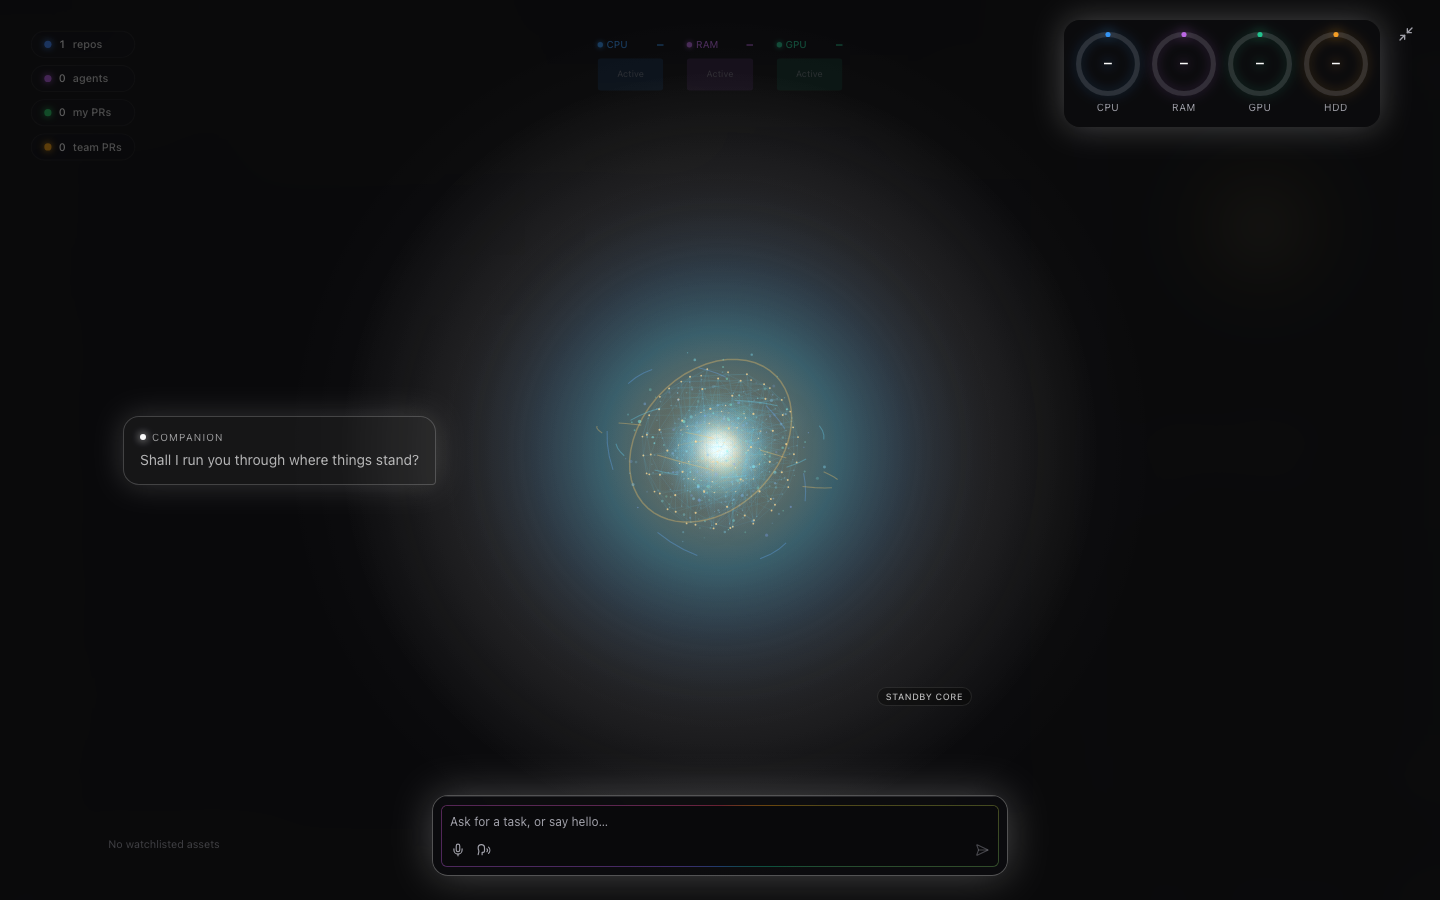
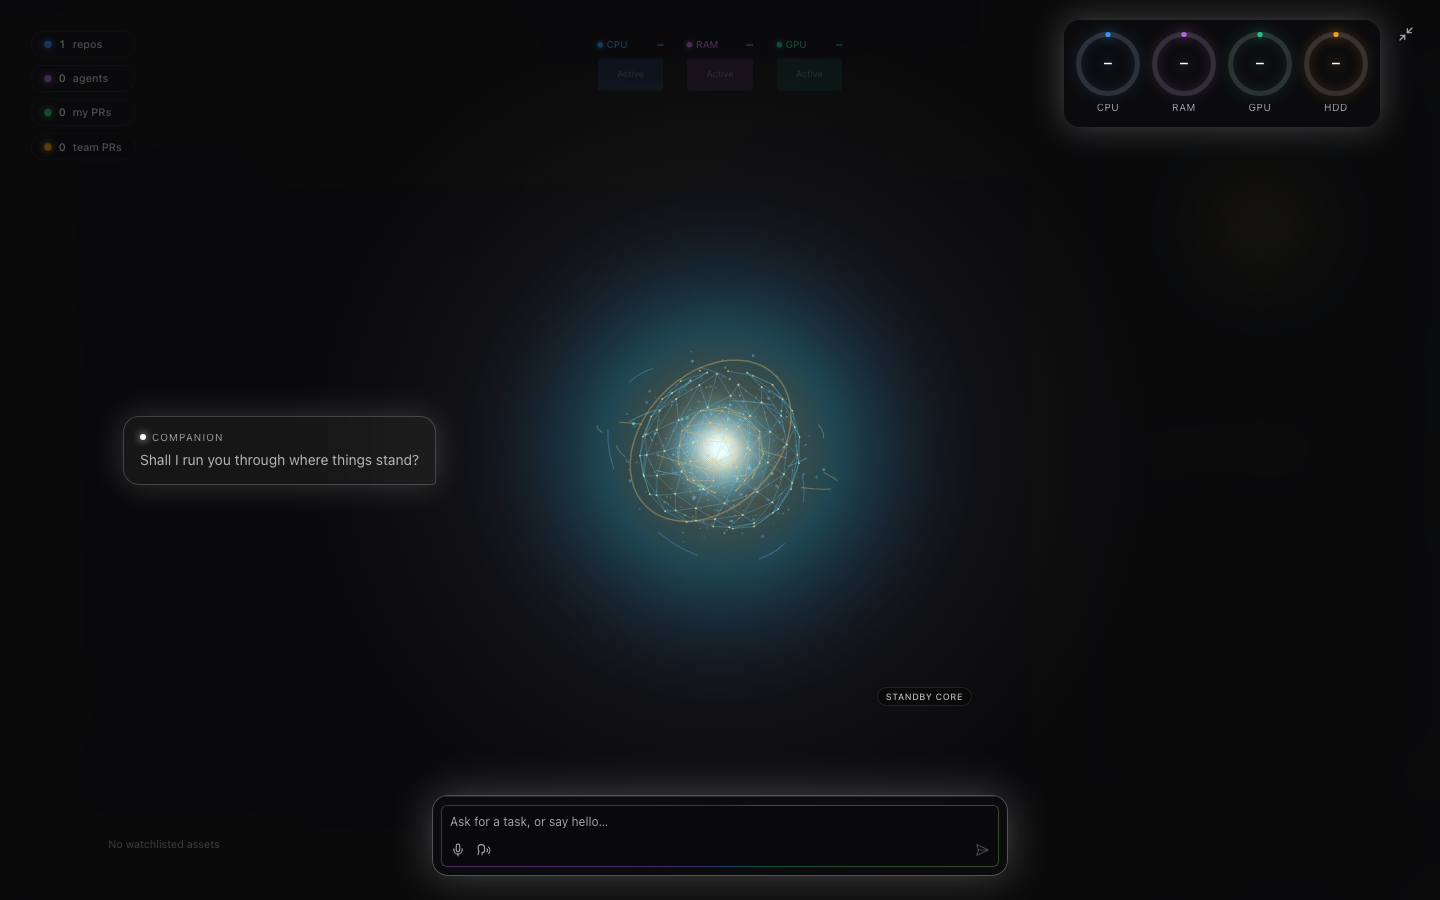
fix(companion): self-review — true lattice neighbours, CSS edge mask, breathing at the cap
- Lattice offsets are the Fibonacci sphere's real nearest neighbours (8/13/21
  outer, 5/8/13 inner) and never wrap, which drew chords through the poles.
- Edges batch into one front and one back path: 4 strokes per frame, not ~600.
- The edge mask is a CSS mask-image (an ellipse via closest-side) instead of a
  per-frame destination-in fill over the whole canvas; the wide docked canvas
  keeps its horizontal room.
- The corona's cap breathes too, so the docked corona (always at the cap)
  still changes size.
- Drop the Zen DOM halo: it pulsed out of phase with the corona it duplicated.
- Corona test derives the zen geometry from the real constants.

Changed region(s): [[0.375, 0.3111, 0.625, 0.7156]]

diff --git a/packages/app/src/features/companion/companion-orb.tsx b/packages/app/src/features/companion/companion-orb.tsx
@@ -1,6 +1,6 @@
 import { COMPANION_LEVEL_VAR, type CompanionState } from '@midnite/studio-shared';
 import { project3D, rotate3D, type ProjectedPoint, type Vec3 } from '@midnite/studio-frame';
-import { useEffect, useRef } from 'react';
+import { useEffect, useRef, type CSSProperties } from 'react';
 
 export type OrbStateVisualProfile = {
   mode: 'idle' | 'listening' | 'thinking' | 'speaking' | 'handoff';
@@ -108,17 +108,29 @@ export const ORB_PARTICLE_COUNT = 280;
  */
 export const ORB_ZEN_GLOW_BLEED = 0.35;
 
+/** The orb's resting radius as a fraction of its layout box's shorter side. */
+export const ORB_RADIUS_FRACTION = 0.3;
+
 /**
- * Where the edge mask starts fading, as a fraction of the canvas's half-extent.
- * Everything drawn fades to nothing by the half-extent itself, so no layer can
- * meet the canvas edge with a hard line, whatever its radius.
+ * Where the edge mask starts fading, as a fraction of the distance from the
+ * centre to the canvas edge. Everything drawn has faded to nothing by the edge
+ * itself, so no layer can meet it with a hard line, whatever its radius.
  */
 export const ORB_EDGE_FADE_START = 0.82;
 
 /**
+ * A CSS mask rather than a per-frame `destination-in` fill: the compositor
+ * applies it once to the whole canvas. `closest-side` makes it an ellipse
+ * inscribed in the canvas, so a wide docked canvas keeps its horizontal room.
+ */
+const ORB_EDGE_MASK = `radial-gradient(closest-side, #000 ${ORB_EDGE_FADE_START * 100}%, transparent 100%)`;
+
+/**
  * The corona's outer radius: grows with speech and breathes with `breath`
  * (-1..1), but never past `maxRadius`, so its gradient always reaches
- * transparent inside the canvas.
+ * transparent inside the canvas. The cap breathes too, so a corona held at
+ * the cap (the docked canvas, where there is no spare room) still visibly
+ * changes size.
  */
 export function orbCoronaRadius(
   baseRadius: number,
@@ -126,7 +138,8 @@ export function orbCoronaRadius(
   breath: number,
   maxRadius: number,
 ): number {
-  return Math.min(maxRadius, baseRadius * (1.85 + speech * 0.35) * (1 + breath * 0.07));
+  const cap = maxRadius * (0.93 + 0.035 * (breath + 1));
+  return Math.min(cap, baseRadius * (1.85 + speech * 0.35) * (1 + breath * 0.07));
 }
 
 type FogCloud3D = {
@@ -222,8 +235,8 @@ export function computeSphericalHarmonicVertex(
  * - **State-Specific Synaptic Arcs & Vocal Resonance Shells**: Distinct animations
  *   and color palettes for `idle`, `listening`, `thinking`, `speaking`, and `handoff`.
  *
- * Nothing it draws is ever cut off by the canvas edge: an edge mask fades every
- * layer out before the half-extent, and in Zen the canvas bleeds
+ * Nothing it draws is ever cut off by the canvas edge: a CSS edge mask fades
+ * every layer out before the edge, and in Zen the canvas bleeds
  * {@link ORB_ZEN_GLOW_BLEED} past its box so the corona has room to bloom.
  */
 export function CompanionOrb({ state, zen = false }: { state: CompanionState; zen?: boolean }) {
@@ -387,7 +400,7 @@ export function CompanionOrb({ state, zen = false }: { state: CompanionState; ze
       const canvasHalf = Math.min(width, height) / 2;
       // The orb is sized from the layout box; in Zen the canvas is larger than that box.
       const layoutMin = Math.min(width, height) / (zen ? 1 + 2 * ORB_ZEN_GLOW_BLEED : 1);
-      const baseRadius = layoutMin * 0.3 * (1 + speech * 0.14 + Math.sin(anim.pulsePhase) * 0.03);
+      const baseRadius = layoutMin * ORB_RADIUS_FRACTION * (1 + speech * 0.14 + Math.sin(anim.pulsePhase) * 0.03);
       const fov = 320;
       const camDist = 340;
       // Slow breathing (~7s) with a faster overtone, independent of speech.
@@ -536,8 +549,8 @@ export function CompanionOrb({ state, zen = false }: { state: CompanionState; ze
         innerNodes.push(project3D(rotated, centerX, centerY, fov, camDist));
       }
       // Neighbour offsets on a Fibonacci sphere are Fibonacci numbers; joining them triangulates it.
-      strokeLattice(ctx, innerNodes, [1, 5, 8], anim.accHue, 0.38 + speech * 0.3, 0.75);
-      strokeLattice(ctx, projectedNodes, [1, 13, 21], anim.hue, 0.28 + speech * 0.42, 1, anim.secHue);
+      strokeLattice(ctx, innerNodes, [5, 8, 13], anim.accHue, 0.38 + speech * 0.3, 0.75);
+      strokeLattice(ctx, projectedNodes, [8, 13, 21], anim.hue, 0.28 + speech * 0.42, 1, anim.secHue);
 
       // Glowing 3D geodesic surface nodes
       for (let i = 0; i < projectedNodes.length; i++) {
@@ -712,22 +725,6 @@ export function CompanionOrb({ state, zen = false }: { state: CompanionState; ze
         }
       }
 
-      // Edge mask: fade every layer out before the canvas edge so nothing ends in a hard line.
-      const edgeMask = ctx.createRadialGradient(
-        centerX,
-        centerY,
-        canvasHalf * ORB_EDGE_FADE_START,
-        centerX,
-        centerY,
-        canvasHalf,
-      );
-      edgeMask.addColorStop(0, 'rgba(0, 0, 0, 1)');
-      edgeMask.addColorStop(1, 'rgba(0, 0, 0, 0)');
-      ctx.globalCompositeOperation = 'destination-in';
-      ctx.fillStyle = edgeMask;
-      ctx.fillRect(0, 0, width, height);
-      ctx.globalCompositeOperation = 'source-over';
-
       ctx.restore();
 
       if (!reducedMotion) {
@@ -765,7 +762,7 @@ export function CompanionOrb({ state, zen = false }: { state: CompanionState; ze
         ref={canvasRef}
         data-testid="companion-orb-canvas"
         className={zen ? 'absolute' : 'h-full w-full'}
-        style={zen ? ZEN_CANVAS_STYLE : undefined}
+        style={zen ? ZEN_CANVAS_STYLE : EDGE_MASK_STYLE}
       />
       <span
         data-testid="companion-orb-mode-badge"
@@ -777,7 +774,10 @@ export function CompanionOrb({ state, zen = false }: { state: CompanionState; ze
   );
 }
 
-const ZEN_CANVAS_STYLE = {
+const EDGE_MASK_STYLE: CSSProperties = { maskImage: ORB_EDGE_MASK, WebkitMaskImage: ORB_EDGE_MASK };
+
+const ZEN_CANVAS_STYLE: CSSProperties = {
+  ...EDGE_MASK_STYLE,
   left: `${-ORB_ZEN_GLOW_BLEED * 100}%`,
   top: `${-ORB_ZEN_GLOW_BLEED * 100}%`,
   width: `${(1 + 2 * ORB_ZEN_GLOW_BLEED) * 100}%`,
@@ -785,9 +785,12 @@ const ZEN_CANVAS_STYLE = {
 };
 
 /**
- * Joins each vertex to the ones `offsets` further along the Fibonacci spiral.
- * Front-facing edges (`z < 0`) draw in `frontHue` at up to `frontAlpha`; the
- * back of the shell stays faint, in `backHue` when given.
+ * Joins each vertex to the ones `offsets` further along the Fibonacci spiral —
+ * on a Fibonacci sphere a vertex's nearest neighbours sit a Fibonacci number of
+ * indices away, so this triangulates the shell. Offsets never wrap past the end,
+ * which would join the two poles straight through the orb. Edges are batched
+ * into one path for the front of the shell (`z < 0`, in `frontHue` at
+ * `frontAlpha`) and one faint path for the back (in `backHue` when given).
  */
 function strokeLattice(
   ctx: CanvasRenderingContext2D,
@@ -798,20 +801,22 @@ function strokeLattice(
   widthScale: number,
   backHue = frontHue,
 ): void {
-  for (let i = 0; i < nodes.length; i++) {
-    const pA = nodes[i];
-    if (!pA || !pA.visible) continue;
-    const isFront = pA.z < 0;
-    const alpha = isFront ? Math.min(0.72, frontAlpha * pA.scale) : Math.min(0.2, 0.09 * pA.scale);
-    ctx.strokeStyle = `hsla(${isFront ? frontHue : backHue}, 94%, 68%, ${alpha})`;
-    ctx.lineWidth = (isFront ? 0.95 : 0.55) * pA.scale * widthScale;
-    for (const offset of offsets) {
-      const pB = nodes[(i + offset) % nodes.length];
-      if (!pB || !pB.visible) continue;
-      ctx.beginPath();
-      ctx.moveTo(pA.sx, pA.sy);
-      ctx.lineTo(pB.sx, pB.sy);
-      ctx.stroke();
+  for (const front of [false, true]) {
+    ctx.beginPath();
+    for (let i = 0; i < nodes.length; i++) {
+      const pA = nodes[i];
+      if (!pA || !pA.visible || pA.z < 0 !== front) continue;
+      for (const offset of offsets) {
+        const pB = nodes[i + offset];
+        if (!pB || !pB.visible) continue;
+        ctx.moveTo(pA.sx, pA.sy);
+        ctx.lineTo(pB.sx, pB.sy);
+      }
     }
+    ctx.strokeStyle = front
+      ? `hsla(${frontHue}, 94%, 68%, ${Math.min(0.72, frontAlpha)})`
+      : `hsla(${backHue}, 94%, 68%, 0.1)`;
+    ctx.lineWidth = (front ? 0.95 : 0.55) * widthScale;
+    ctx.stroke();
   }
 }

diff --git a/packages/app/src/features/companion/companion-orb.test.tsx b/packages/app/src/features/companion/companion-orb.test.tsx
@@ -10,6 +10,7 @@ import {
   ORB_FOG_CLOUD_COUNT,
   ORB_INNER_SHELL_NODES,
   ORB_PARTICLE_COUNT,
+  ORB_RADIUS_FRACTION,
   ORB_STATE_PROFILES,
   ORB_ZEN_GLOW_BLEED,
   orbCoronaRadius,
@@ -70,8 +71,18 @@ describe('CompanionOrb 3D Jarvis spherical visualizer', () => {
         expect(orbCoronaRadius(100, speech, breath, half)).toBeLessThanOrEqual(half);
       }
     }
-    // Breathing changes the radius when there is room for it.
-    expect(orbCoronaRadius(50, 0, 1, 1000)).toBeGreaterThan(orbCoronaRadius(50, 0, -1, 1000));
+    // Breathing still changes the radius when the corona is held at the cap (docked).
+    expect(orbCoronaRadius(100, 0, 1, half)).toBeGreaterThan(orbCoronaRadius(100, 0, -1, half));
+  });
+
+  it('gives the zen corona room to fade out unclamped at full speech and pulse', () => {
+    const layoutMin = 520;
+    const canvasHalf = (layoutMin * (1 + 2 * ORB_ZEN_GLOW_BLEED)) / 2;
+    // The largest the orb gets: full speech (+14%) at the top of its pulse (+3%).
+    const peakBase = layoutMin * ORB_RADIUS_FRACTION * (1 + 0.14 + 0.03);
+    const unclamped = peakBase * (1.85 + 0.35) * 1.07;
+    expect(unclamped).toBeLessThanOrEqual(canvasHalf * (0.93 + 0.07));
+    expect(orbCoronaRadius(peakBase, 1, 1, canvasHalf)).toBeCloseTo(unclamped);
   });
 
   it('lets the zen canvas bleed past its box so the glow is not cut off, while the docked canvas fills its box', () => {
@@ -83,6 +94,13 @@ describe('CompanionOrb 3D Jarvis spherical visualizer', () => {
 
     rerender(<CompanionOrb state="idle" />);
     expect(screen.getByTestId('companion-orb-canvas').style.width).toBe('');
+  });
+
+  it('masks both canvases so every layer fades out before the canvas edge', () => {
+    const { rerender } = render(<CompanionOrb state="idle" zen />);
+    expect(screen.getByTestId('companion-orb-canvas').getAttribute('style')).toMatch(/mask-image:\s*radial-gradient\(closest-side/);
+    rerender(<CompanionOrb state="idle" />);
+    expect(screen.getByTestId('companion-orb-canvas').getAttribute('style')).toMatch(/mask-image:\s*radial-gradient\(closest-side/);
   });
 
   it('reads and clamps --companion-level from document.documentElement', () => {
@@ -159,7 +177,6 @@ describe('CompanionOrb 3D Jarvis spherical visualizer', () => {
           strokeCalls += 1;
         }),
         createRadialGradient: vi.fn(() => mockGrad),
-        fillRect: vi.fn(),
         globalCompositeOperation: 'source-over',
         fillStyle: '',
         strokeStyle: '',

diff --git a/packages/app/src/features/companion/companion-zen-stage.tsx b/packages/app/src/features/companion/companion-zen-stage.tsx
@@ -102,18 +102,10 @@ export function CompanionZenStage({ state }: { state: CompanionState }) {
         </div>
         <div data-testid="companion-zen-orb" className="relative shrink-0">
           {/*
-            A radial gradient, not a box-shadow: an outer shadow is never painted
-            inside its own box, which left a dark disc with a hard edge behind the orb.
+            No halo element here: the orb's canvas bleeds past this box and draws its
+            own breathing corona. The box-shadow halo that used to sit here was never
+            painted inside its own box, leaving a dark disc with a hard edge.
           */}
-          <div
-            aria-hidden
-            data-testid="companion-zen-orb-halo"
-            className="pointer-events-none absolute -inset-[25%] rounded-full motion-safe:animate-pulse"
-            style={{
-              background:
-                'radial-gradient(circle, hsl(var(--primary) / 0.24) 0%, hsl(var(--primary) / 0.1) 40%, transparent 70%)',
-            }}
-          />
           <CompanionOrb state={state} zen />
         </div>
         <div className="relative z-10 flex min-w-0 flex-1 justify-start">
